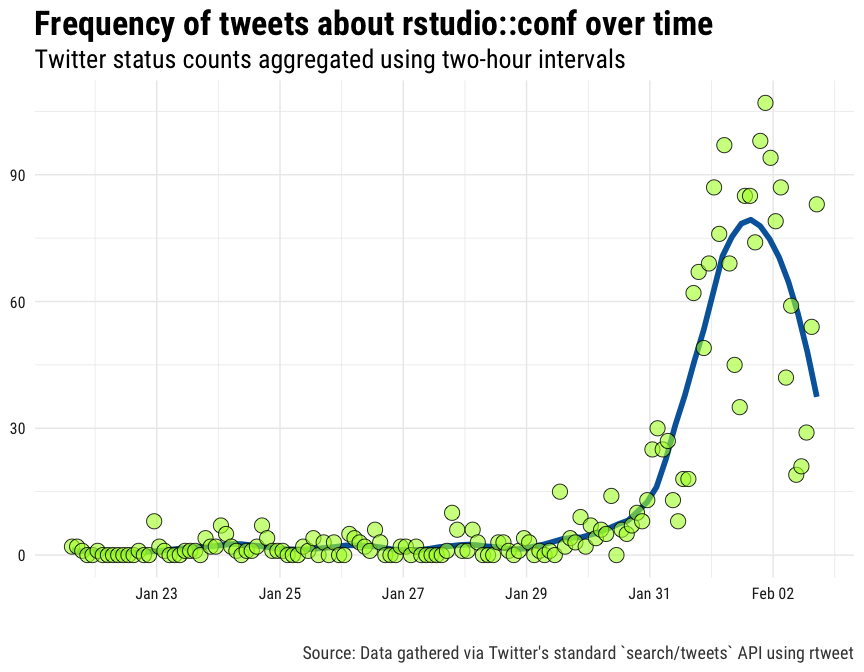
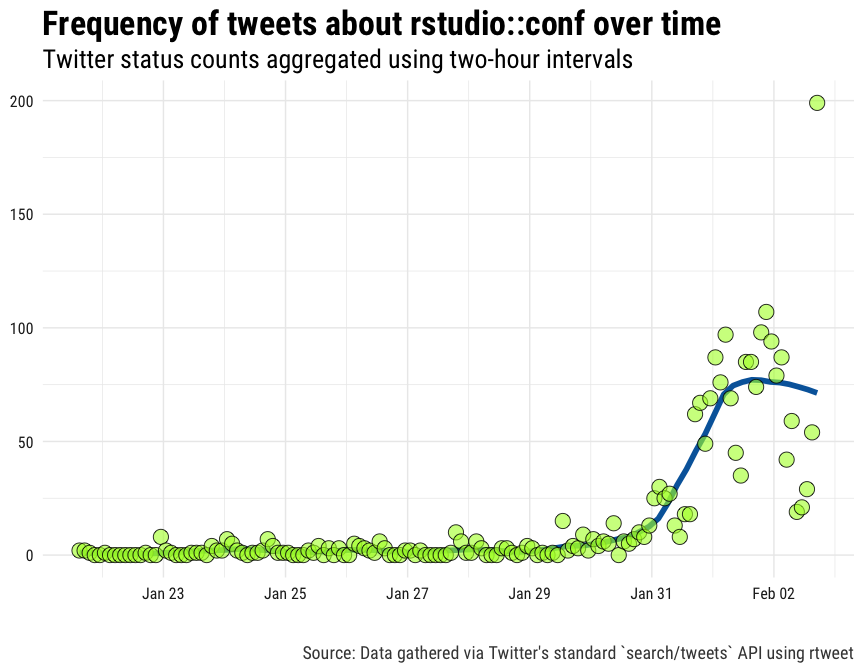
update and made network vis a lot bigger

diff --git a/README.md b/README.md
@@ -183,10 +183,9 @@ rt %>%
   mutate(time = round_time(created_at, 60 * 60)) %>%
   group_by(time) %>%
   summarise(sentiment = mean(sentiment, na.rm = TRUE)) %>%
-  mutate(
-    valence = ifelse(sentiment > 0L, "Positive", "Negative")) %>%
+  mutate(valence = ifelse(sentiment > 0L, "Positive", "Negative")) %>%
   ggplot(aes(x = time, y = sentiment)) +
-  geom_smooth(method = "loess", span = .2,
+  geom_smooth(method = "loess", span = .1,
     colour = "#aa11aadd", fill = "#bbbbbb11") +
   geom_point(aes(fill = valence, colour = valence), 
     shape = 21, alpha = .6, size = 3.5) +
@@ -199,9 +198,9 @@ rt %>%
   scale_fill_manual(values = c(Positive = "#2244ee", Negative = "#dd2222")) +
   scale_colour_manual(values = c(Positive = "#001155", Negative = "#550000")) +
   labs(x = NULL, y = NULL,
-       title = "Sentiment (valence) of rstudio::conf tweets over time",
-       subtitle = "Mean sentiment of tweets aggregated in one-hour intervals",
-    caption = "\n\nSource: Data gathered using rtweet. Sentiment analysis done using syuzhet")
+    title = "Sentiment (valence) of rstudio::conf tweets over time",
+    subtitle = "Mean sentiment of tweets aggregated in one-hour intervals",
+    caption = "\nSource: Data gathered using rtweet. Sentiment analysis done using syuzhet")
 ```
 
 <p align="center">
@@ -234,7 +233,7 @@ rdf <- tidyr::gather(rdf, interaction_type, to_screen_name, -from_screen_name)
 mat <- as.matrix(rdf[, -2])
 mat <- mat[apply(mat, 1, function(i) !any(is.na(i))), ]
 
-## filter out users who don't appeaer in both sides at least once
+## filter out users who don't appear in both sides at least once
 apps1 <- table(mat[, 1])
 apps2 <- table(mat[, 2])
 apps <- names(apps1)[names(apps1) %in% names(apps2)]
@@ -245,40 +244,39 @@ mat <- mat[mat[, 1] %in% apps & mat[, 1] != mat[, 2], ]
 ## create graph object
 g <- igraph::graph_from_edgelist(mat)
 
-## calculate size attriute
+## calculate size attribute (and transform to fit)
 size <- table(c(mat[, 1], mat[, 2]))
+size <- sqrt(size) * 1.25
 
 ## reorder freq table
 size <- size[match(names(size), names(igraph::V(g)))]
 
 ## plot network
-par(mar = c(4, 2, 5, 2))
+par(mar = c(12, 6, 15, 6))
 plot(g,
-  layout = igraph::layout.auto(g),
   edge.size = .4,
   curved = FALSE,
   margin = -.05,
   edge.arrow.size = 0,
   edge.arrow.width = 0,
   vertex.color = "#ADFF2F99",
-  vertex.size = sqrt(size) * 1.75,
+  vertex.size = size,
   vertex.frame.color = "#003366",
   vertex.label.color = "#003366",
-  vertex.label.cex = .75,
+  vertex.label.cex = .8,
   vertex.label.family = "Roboto Condensed",
   edge.color = "#0066aa",
   edge.width = .2,
   main = "")
-par(mar = c(3, 2, 3, 2))
+par(mar = c(9, 6, 9, 6))
 title("Semantic network of users tweeting about rstudio::conf",
-  adj = 0, family = "Roboto Condensed", cex.main = 2.75)
+  adj = 0, family = "Roboto Condensed", cex.main = 6.5)
 mtext("Source: Data gathered using rtweet. Network analysis done using igraph",
-  side = 1, line = 0, adj = 1.0,
-  family = "Roboto Condensed",
-  col = "#222222", cex = 1.6)
+  side = 1, line = 0, adj = 1.0, cex = 3.8,
+  family = "Roboto Condensed", col = "#222222")
 mtext("User connections by mentions, replies, retweets, and quotes",
-  side = 3, line = -1.75, adj = 0,
-  family = "Roboto Condensed", cex = 2.1)
+  side = 3, line = -5, adj = 0,
+  family = "Roboto Condensed", cex = 4.9)
 ```
 
 <p align="center">
